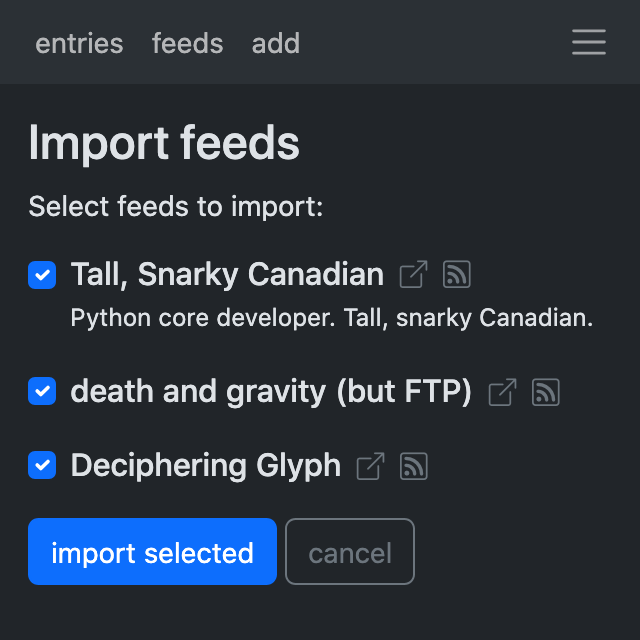
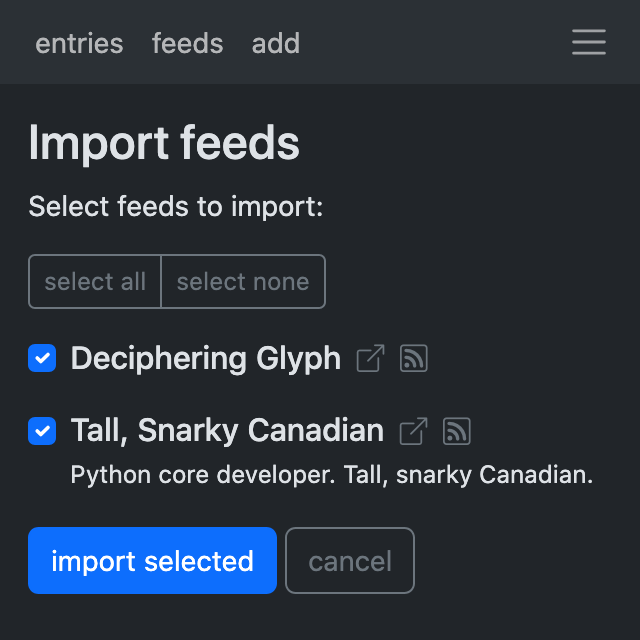
Changelog + more web app screenshots.

Changed region(s): [[0.0312, 0.375, 0.9062, 0.7812], [0.0312, 0.8125, 0.6562, 0.9375], [0.625, 0.8125, 0.6562, 0.8438]]

diff --git a/CHANGES.rst b/CHANGES.rst
@@ -11,14 +11,14 @@ Version 3.24
 
 Unreleased
 
-* Support multiple authors with details (link, email). (:issue:`391`)
+* Support multiple authors with details (link, email).
+  Thanks to `Anshul Mittal`_ for the PR.
+  (:issue:`391`)
 
   * Add :attr:`Feed.authors`, :attr:`Entry.authors`,
     and :attr:`EntrySource.authors` attributes.
   * Add matching :attr:`~Feed.authors_str` property.
   * Deprecate :attr:`~Feed.author` attribute.
-
-  Thanks to `Anshul Mittal`_ for the PR.
 
 * Fix bug introduced in `version 3.15 <Version 3.15_>`__
   causing feeds to not be retrieved in parallel
@@ -28,9 +28,16 @@ Unreleased
   with the possibility to opt into native `structlog`_ logging.
   (:issue:`147`)
 
-* Use :meth:`datetime.fromisoformat` instead of external dependency ``iso8601``.
+* Use :meth:`datetime.datetime.fromisoformat` instead of external dependency ``iso8601``.
   Thanks to `Sebastian Bradley`_ for the PR.
   (:issue:`398`)
+
+* Refactor updater internals to allow reusing logic in alternate implementations.
+
+* :doc:`app` improvements.
+
+  * Add empty state and contextual help; :ref:`screenshots <screenshots-help>`.
+  * Import feeds improvements (select all/none, accept only XML / OPML files).
 
 * Add ``--json`` option to the ``list`` CLI commands.
   Thanks to `Puneet Dixit`_ for the PR.

diff --git a/docs/app.rst b/docs/app.rst
@@ -74,6 +74,17 @@ Screenshots
 
     import feeds (result)
 
+.. _screenshots-help:
+
+.. figure:: screenshots/empty.png
+    :width: 240px
+
+    new user / empty state
+
+.. figure:: screenshots/help.png
+    :width: 240px
+
+    contextual help
 
 
 Serving the web app
